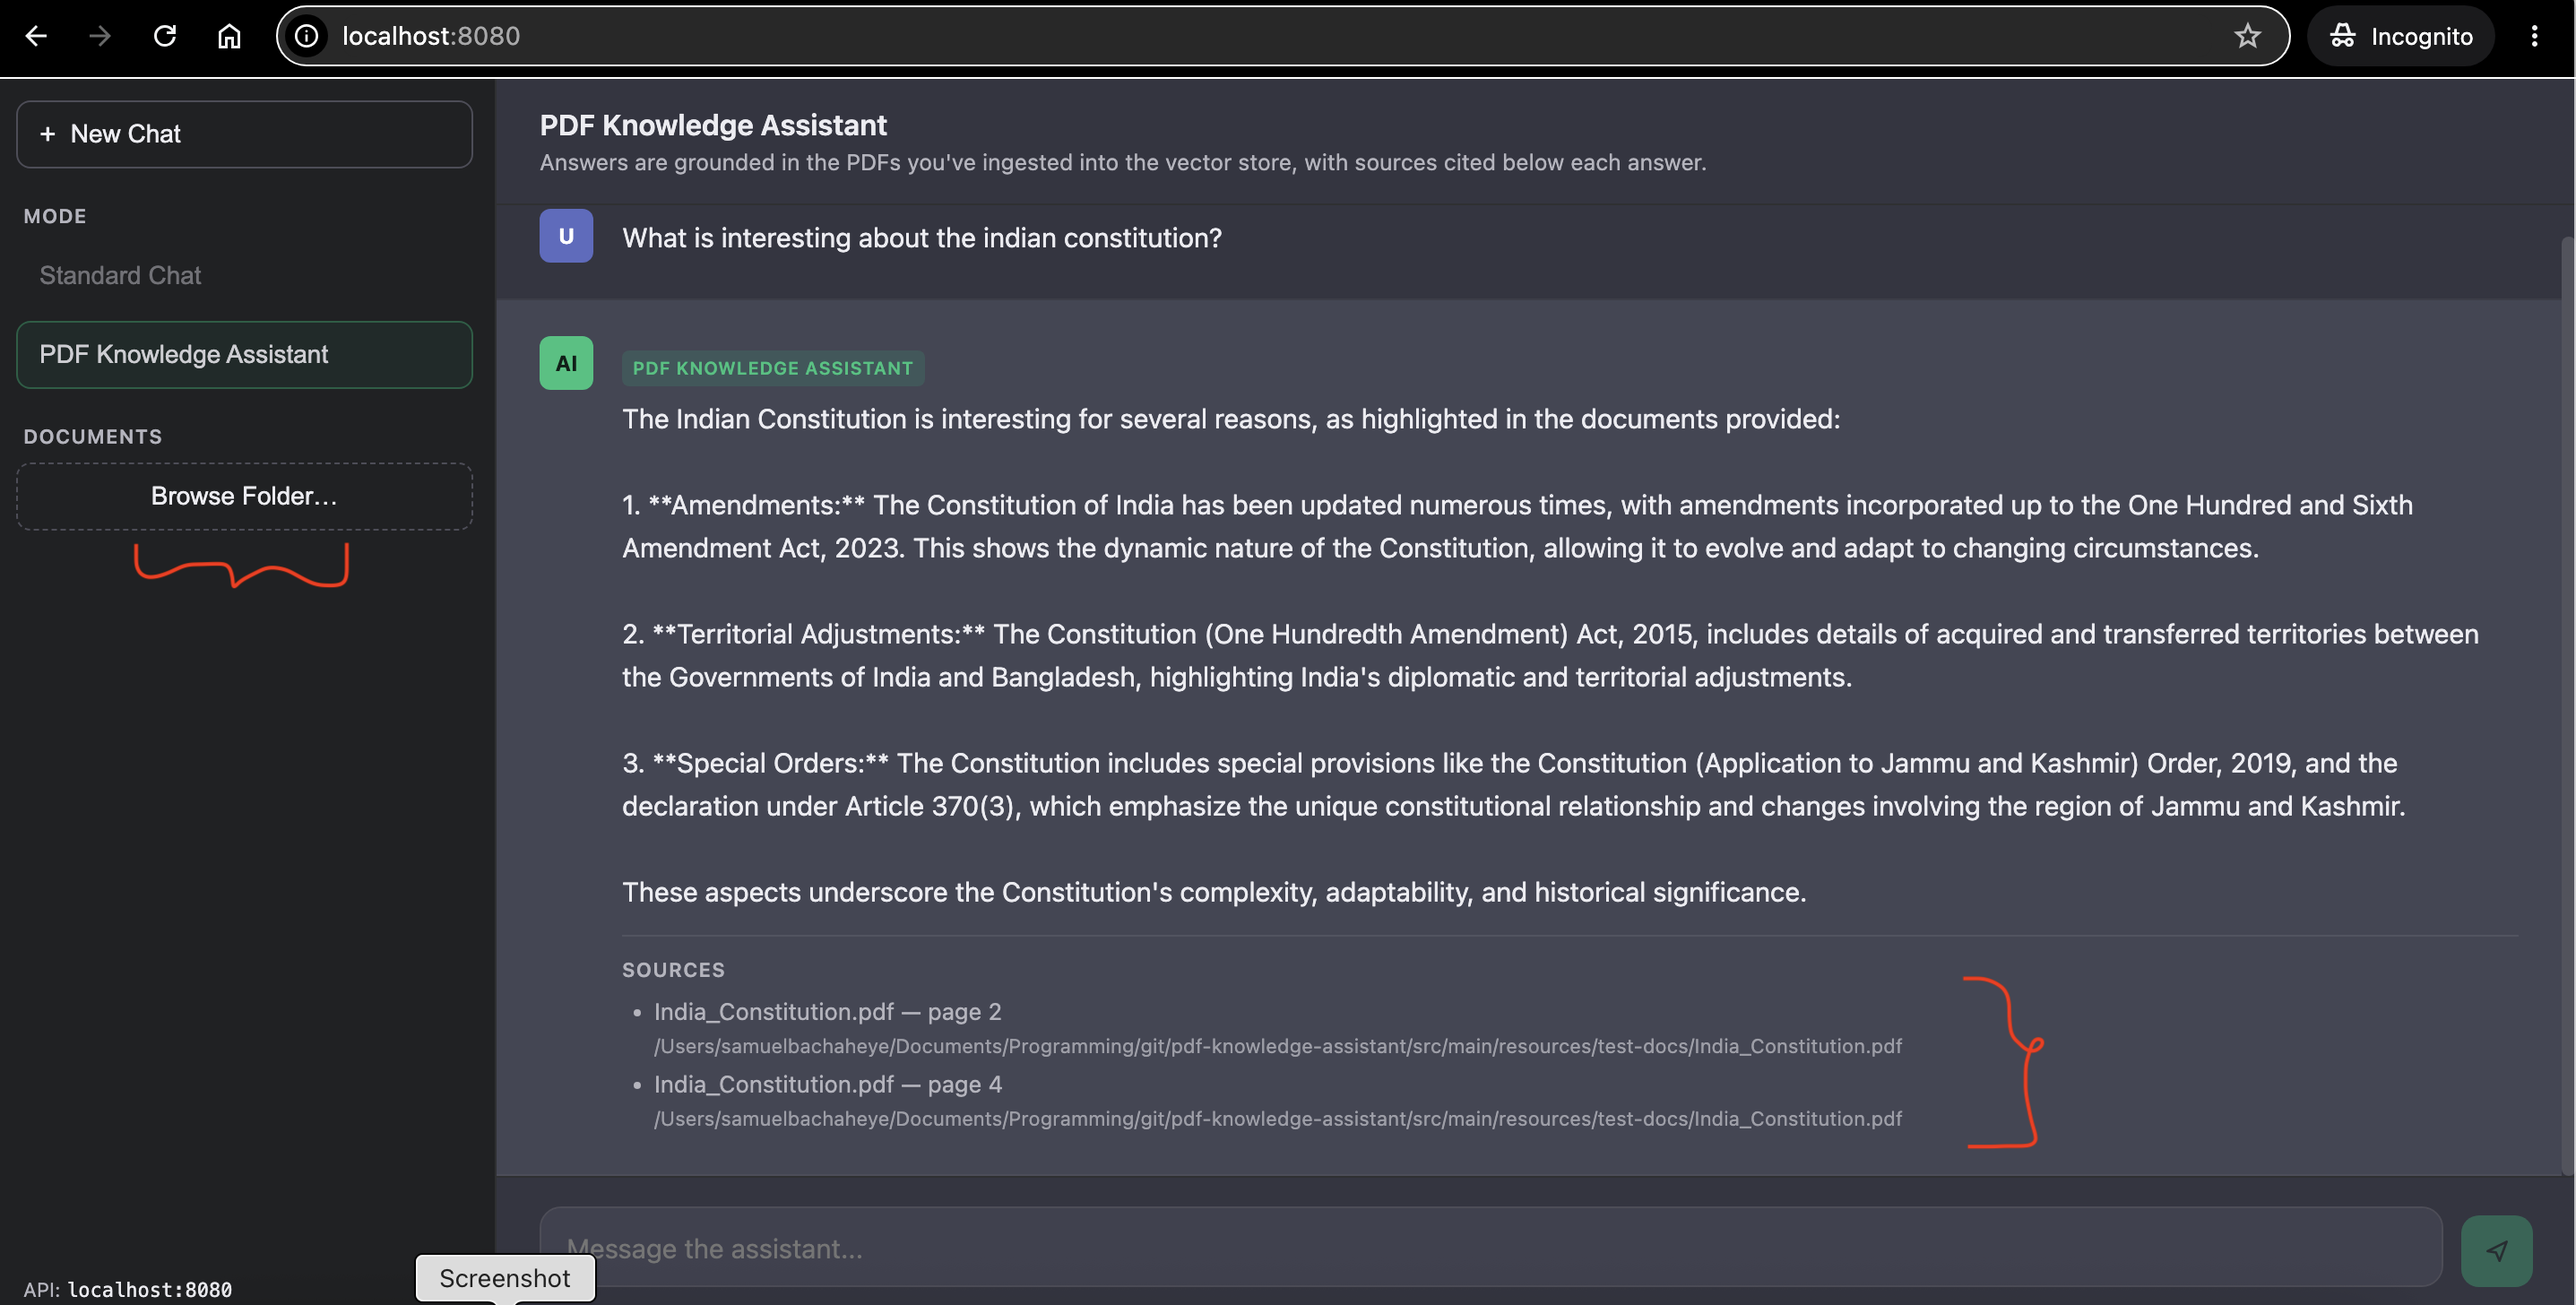
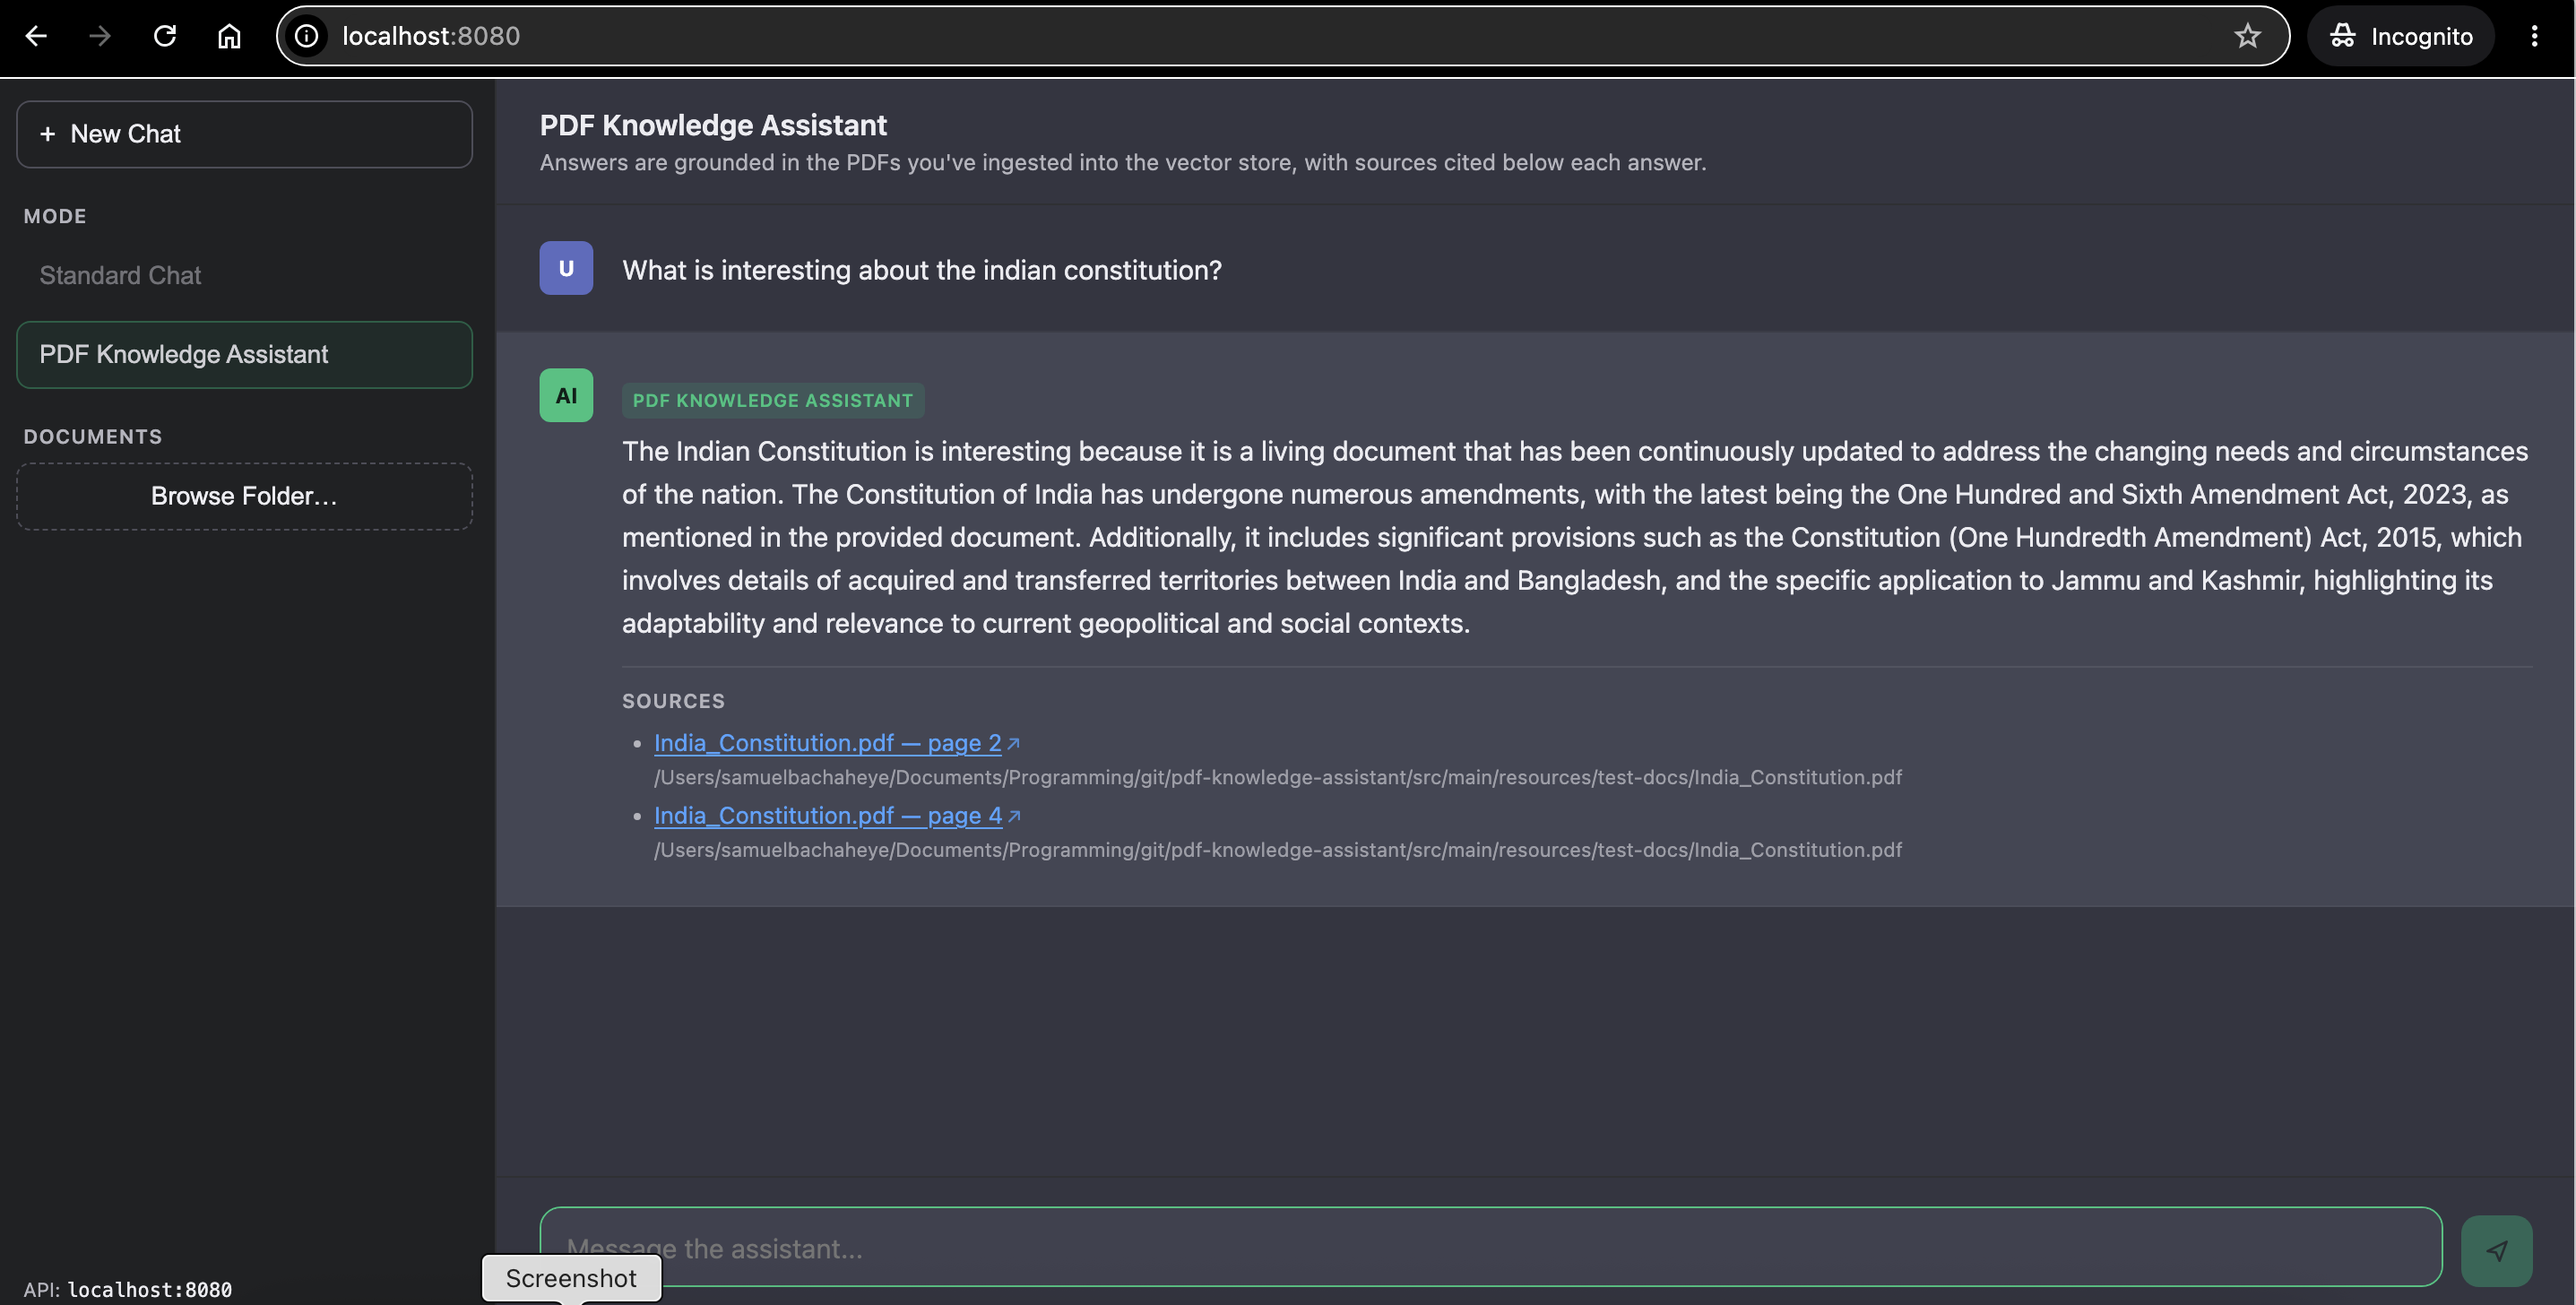
Made the sources hyperlinks

diff --git a/src/main/resources/static/js/app.js b/src/main/resources/static/js/app.js
@@ -31,7 +31,7 @@
   };
 
   const state = {
-    mode: "chat",
+    mode: "rag",
     locked: false,
   };
 
@@ -191,6 +191,20 @@
     return { row, content, textSpan };
   }
 
+  // Points a citation at the PDF it was pulled from, read straight off disk
+  // by /documents/file (never copied), jumping to the cited page via the
+  // browser's built-in PDF viewer's #page= fragment (1-based, same as the
+  // page numbers the backend already reports).
+  function buildSourceFileUrl(path, page) {
+    const url = new URL(API_BASE + "/documents/file");
+    url.searchParams.set("path", path);
+    let href = url.toString();
+    if (page != null) {
+      href += `#page=${page}`;
+    }
+    return href;
+  }
+
   function setMessageText(refs, text, isError, sources) {
     refs.textSpan.textContent = text;
     if (isError) {
@@ -209,13 +223,24 @@
       const list = document.createElement("ul");
       sources.forEach((s) => {
         const li = document.createElement("li");
-        li.textContent = s.page != null ? `${s.file} — page ${s.page}` : s.file;
+        const label = s.page != null ? `${s.file} — page ${s.page}` : s.file;
 
         if (s.path) {
+          const link = document.createElement("a");
+          link.className = "source-link";
+          link.textContent = label;
+          link.href = buildSourceFileUrl(s.path, s.page);
+          link.target = "_blank";
+          link.rel = "noopener";
+          link.title = `Open ${s.path}${s.page != null ? ` at page ${s.page}` : ""}`;
+          li.appendChild(link);
+
           const pathEl = document.createElement("span");
           pathEl.className = "source-path";
           pathEl.textContent = s.path;
           li.appendChild(pathEl);
+        } else {
+          li.textContent = label;
         }
 
         list.appendChild(li);

diff --git a/src/main/resources/static/index.html b/src/main/resources/static/index.html
@@ -17,8 +17,8 @@
       <div class="section">
         <div class="section-label">Mode</div>
         <div class="mode-toggle" id="modeToggle">
-          <button class="mode-option active" data-mode="chat" type="button">Standard Chat</button>
-          <button class="mode-option" data-mode="rag" type="button">PDF Knowledge Assistant</button>
+          <button class="mode-option" data-mode="chat" type="button">Standard Chat</button>
+          <button class="mode-option active" data-mode="rag" type="button">PDF Knowledge Assistant</button>
         </div>
       </div>
 
@@ -44,14 +44,14 @@
 
     <main class="main">
       <header class="main-header">
-        <h1 id="modeTitle">Standard Chat</h1>
-        <p id="modeDesc">Chatting directly with the model — no document context.</p>
+        <h1 id="modeTitle">PDF Knowledge Assistant</h1>
+        <p id="modeDesc">Answers are grounded in the PDFs you've ingested into the vector store, with sources cited below each answer.</p>
       </header>
 
       <div class="messages" id="messages">
         <div class="empty-state" id="emptyState">
-          <h2 id="emptyStateTitle">Standard Chat</h2>
-          <p id="emptyStateText">Ask a question below to get started. Switch to <strong>PDF Knowledge Assistant</strong> mode to ask questions grounded in your uploaded documents.</p>
+          <h2 id="emptyStateTitle">PDF Knowledge Assistant</h2>
+          <p id="emptyStateText">Ask a question below to get started. Answers will be grounded in your ingested PDFs, with sources cited below each answer.</p>
         </div>
       </div>
 

diff --git a/src/main/resources/static/css/style.css b/src/main/resources/static/css/style.css
@@ -7,6 +7,8 @@
   --text-secondary: #b4b4bd;
   --accent: #19c37d;
   --accent-hover: #15a86a;
+  --link: #4da3ff;
+  --link-hover: #7cbaff;
   --danger: #ef4444;
   --input-bg: #40414f;
   --border-subtle: #4d4d58;
@@ -381,6 +383,31 @@ body {
 
 .sources li {
   margin-bottom: 2px;
+}
+
+.source-link {
+  color: var(--link);
+  text-decoration: underline;
+  text-decoration-thickness: 1px;
+  text-underline-offset: 2px;
+  cursor: pointer;
+}
+
+.source-link::after {
+  content: "\2197";
+  display: inline-block;
+  margin-left: 2px;
+  font-size: 0.85em;
+  opacity: 0.75;
+  text-decoration: none;
+}
+
+.source-link:hover {
+  color: var(--link-hover);
+}
+
+.source-link:hover::after {
+  opacity: 1;
 }
 
 .source-path {

diff --git a/src/main/java/spring/ai/controller/DocumentUploadController.java b/src/main/java/spring/ai/controller/DocumentUploadController.java
@@ -8,7 +8,9 @@ import org.springframework.ai.transformer.splitter.TokenTextSplitter;
 import org.springframework.ai.vectorstore.VectorStore;
 import org.springframework.core.io.FileSystemResource;
 import org.springframework.core.io.Resource;
+import org.springframework.http.HttpHeaders;
 import org.springframework.http.HttpStatus;
+import org.springframework.http.MediaType;
 import org.springframework.http.ResponseEntity;
 import org.springframework.web.bind.annotation.GetMapping;
 import org.springframework.web.bind.annotation.PostMapping;
@@ -39,7 +41,9 @@ import java.util.stream.Stream;
  *
  * <p>Files are read in place — never copied or moved — so each chunk's
  * metadata can carry the file's real absolute path, which {@code /chat/rag}
- * then surfaces back in its citations.
+ * then surfaces back in its citations. {@code GET /documents/file} streams
+ * a cited PDF back on demand (also reading it in place) so those citations
+ * can be opened directly from the UI.
  */
 @RestController
 public class DocumentUploadController {
@@ -114,6 +118,42 @@ public class DocumentUploadController {
         body.put("parent", parent != null ? parent.toString() : null);
         body.put("entries", entries);
         return ResponseEntity.ok(body);
+    }
+
+    /**
+     * Streams a single ingested PDF straight off disk so citations in the UI
+     * can be opened directly, at a given page, without ever copying the file
+     * anywhere. {@code path} must point at an existing, readable {@code .pdf}
+     * file; {@code Content-Disposition: inline} lets the browser's built-in
+     * PDF viewer render it (and honor a {@code #page=N} fragment) instead of
+     * downloading it.
+     *
+     * <p>Note: like {@code /documents/browse}, this endpoint trusts any path
+     * on disk it's given — acceptable for a personal, localhost-only tool,
+     * but it should not be exposed beyond that without adding access checks.
+     */
+    @GetMapping("/documents/file")
+    public ResponseEntity<Resource> serveFile(@RequestParam String path) {
+        if (path == null || path.isBlank()) {
+            return ResponseEntity.badRequest().build();
+        }
+
+        Path file = Path.of(path).toAbsolutePath().normalize();
+
+        if (!Files.isRegularFile(file) || !Files.isReadable(file)) {
+            return ResponseEntity.notFound().build();
+        }
+        if (!file.getFileName().toString().toLowerCase().endsWith(PDF_EXTENSION)) {
+            return ResponseEntity.status(HttpStatus.FORBIDDEN).build();
+        }
+
+        Resource resource = new FileSystemResource(file);
+
+        return ResponseEntity.ok()
+                .contentType(MediaType.APPLICATION_PDF)
+                .header(HttpHeaders.CONTENT_DISPOSITION,
+                        "inline; filename=\"" + file.getFileName() + "\"")
+                .body(resource);
     }
 
     private List<Map<String, Object>> listSubdirectories(Path directory) throws IOException {

diff --git a/README.md b/README.md
@@ -48,7 +48,7 @@ The app starts on **http://localhost:8080**. The UI is served automatically at t
 ## UI features
 
 - **Standard Chat** mode — talks directly to the model (`POST /chat`).
-- **PDF Knowledge Assistant** mode — RAG over your ingested PDFs (`POST /chat/rag`), with a **Sources** list (file, page, and absolute path) shown under each answer.
+- **PDF Knowledge Assistant** mode — RAG over your ingested PDFs (`POST /chat/rag`), with a **Sources** list (file, page, and absolute path) shown under each answer. Each citation is a clickable link (backed by `GET /documents/file`) that opens the actual PDF, straight off disk, at the cited page — nothing is copied or uploaded to show it.
 - **Browse Folder…** from the sidebar — opens an in-app folder browser (a modal backed by `GET /documents/browse`, which lists subfolders with plain `java.nio.file` directory listing, no OS dialog involved). Click through folders (or jump to **Home** / **Computer**, or go **Up**) and hit **Ingest This Folder** on whichever one you land on. Every PDF under it (recursively, by default) is then read in place and added to the vector store (`POST /documents/ingest-directory`). Nothing is copied or uploaded: the app reads each file straight from where it already lives, so citations carry the document's real absolute path.
 - Mode is locked once you send your first message in a chat — start a **New Chat** to switch between Standard Chat and Knowledge Assistant.
 - Stateless: each question is sent independently, no conversation history is kept server-side.
@@ -63,8 +63,9 @@ Note: the vector store is backed by Postgres/pgvector — ingested documents per
 | POST   | `/chat/rag`                   | `{"q": "..."}`                                         | `{"answer": "...", "sources": [{"file": "...", "page": 1, "path": "..."}, ...]}`                                         |
 | GET    | `/documents/browse`           | `?path=/abs/path` or `?roots=true` (both optional)     | `{"path": "...", "parent": "...", "entries": [{"name": "...", "path": "...", "pdfCount": N}, ...]}`                      |
 | POST   | `/documents/ingest-directory` | `{"directory": "/abs/path", "recursive": true}`        | `{"message": "...", "directory": "...", "filesProcessed": N, "chunksAdded": N, "ingested": [...], "failed": [...]}`      |
+| GET    | `/documents/file`             | `?path=/abs/path/to/file.pdf`                          | the PDF's raw bytes, `Content-Type: application/pdf`, `Content-Disposition: inline`                                      |
 
-`/chat/rag`'s `sources` are the actual document chunks retrieved from the vector store for that question (deduped by file + page) — not something the model is asked to guess, so they're always accurate to what was fed into the prompt, and `path` is the file's real absolute location on disk. `/documents/browse` lists a directory's subfolders (omit `path` for the home directory, or pass `roots=true` to list filesystem roots — drive letters on Windows, `/` on macOS/Linux) using plain `java.nio.file` calls; hidden and unreadable entries are filtered out, and each entry's `pdfCount` is a non-recursive count of PDFs directly inside it. `/documents/ingest-directory` then reads each PDF directly from the chosen folder in place; nothing is copied or uploaded. `recursive` defaults to `true` when omitted. Re-ingesting the same file adds duplicate chunks rather than replacing the old ones — there's no dedup/upsert yet.
+`/chat/rag`'s `sources` are the actual document chunks retrieved from the vector store for that question (deduped by file + page) — not something the model is asked to guess, so they're always accurate to what was fed into the prompt, and `path` is the file's real absolute location on disk. `/documents/browse` lists a directory's subfolders (omit `path` for the home directory, or pass `roots=true` to list filesystem roots — drive letters on Windows, `/` on macOS/Linux) using plain `java.nio.file` calls; hidden and unreadable entries are filtered out, and each entry's `pdfCount` is a non-recursive count of PDFs directly inside it. `/documents/ingest-directory` then reads each PDF directly from the chosen folder in place; nothing is copied or uploaded. `recursive` defaults to `true` when omitted. Re-ingesting the same file adds duplicate chunks rather than replacing the old ones — there's no dedup/upsert yet. `/documents/file` streams a cited PDF straight off disk (also in place, never copied) so the UI can link each citation directly to its source, jumping to the cited page; it trusts whatever path it's given as long as it's an existing, readable `.pdf` file, which is fine for a personal, localhost-only tool but not something to expose beyond that without adding access checks.
 
 A Postman collection (`src/main/resources/postman-collection/pdf-knowledge-assistant.postman_collection.json`) is included for testing these directly.
 
